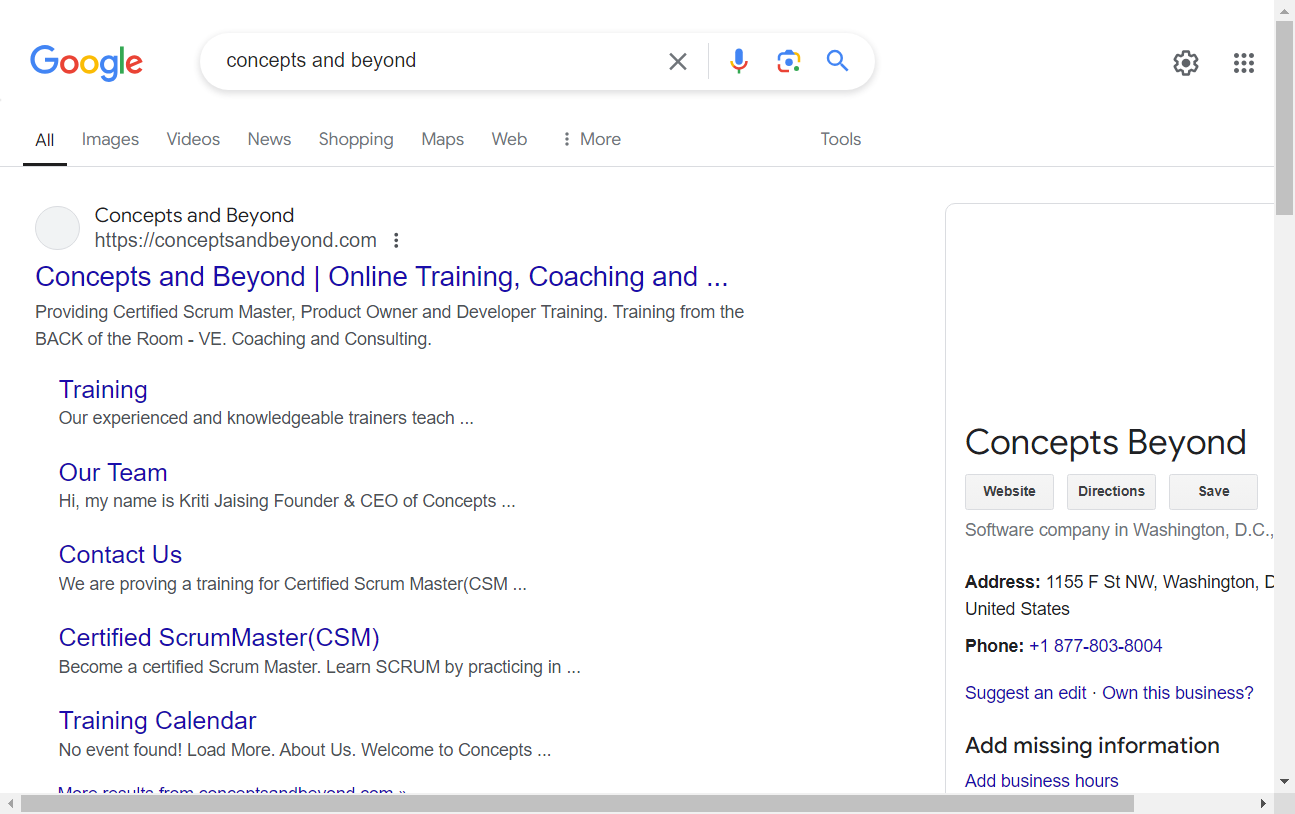
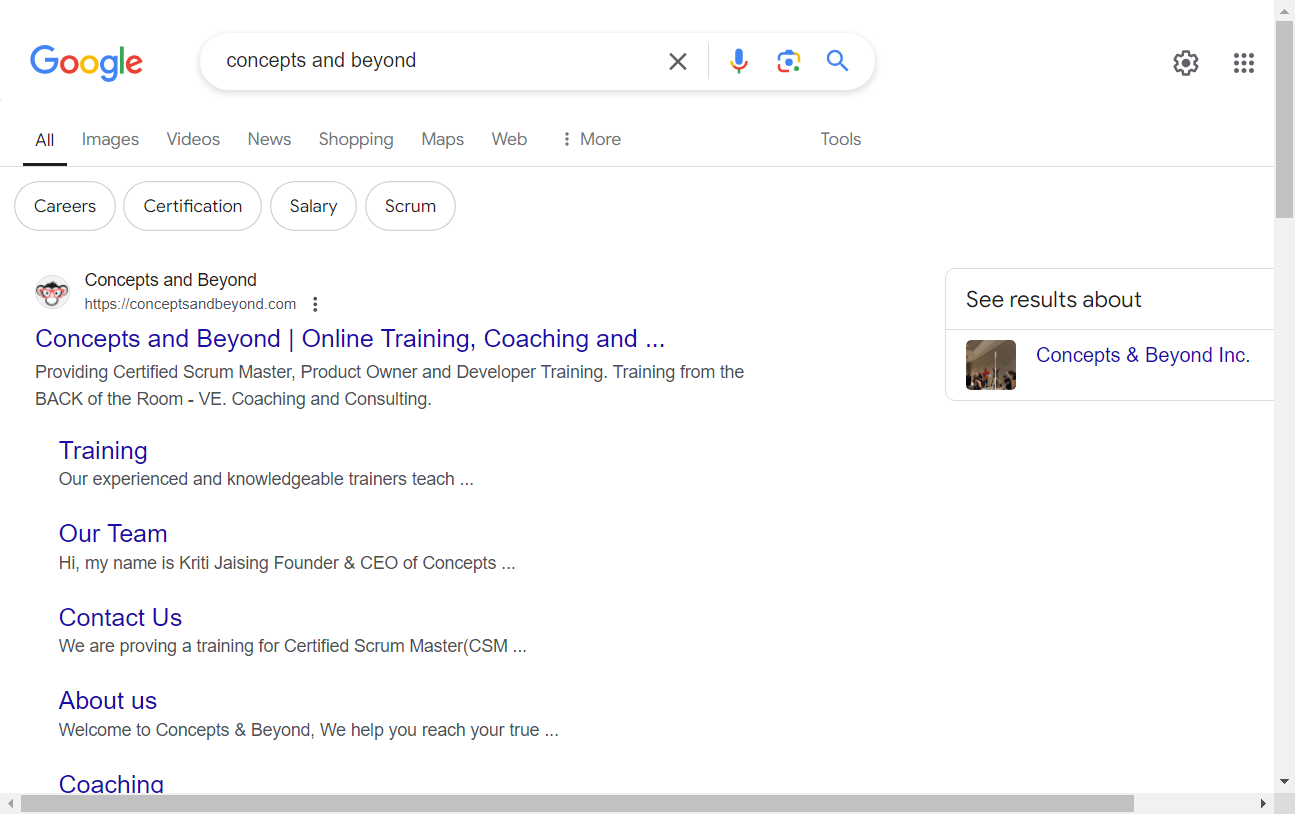
commented the image not showing option

diff --git a/ui_test.py b/ui_test.py
@@ -15,7 +15,7 @@ chrome_options = Options()
 chrome_options.add_argument("--disable-gpu")
 chrome_options.add_argument("--no-sandbox")
 chrome_options.add_argument("--disable-extensions")
-chrome_options.add_argument("--blink-settings=imagesEnabled=false")  # Disable images
+# chrome_options.add_argument("--blink-settings=imagesEnabled=false")  # Disable images
 
 # Set up the Chrome WebDriver using WebDriverManager with options
 service = Service(ChromeDriverManager().install())
